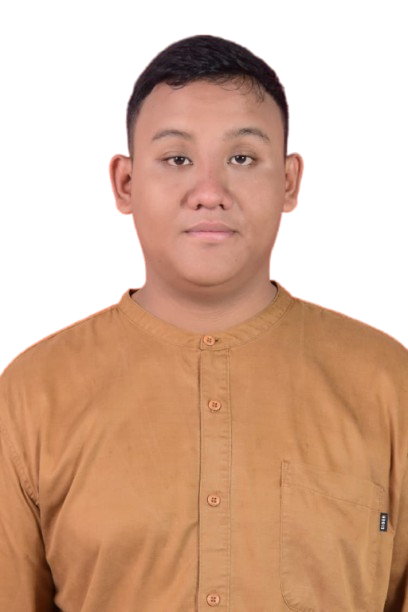
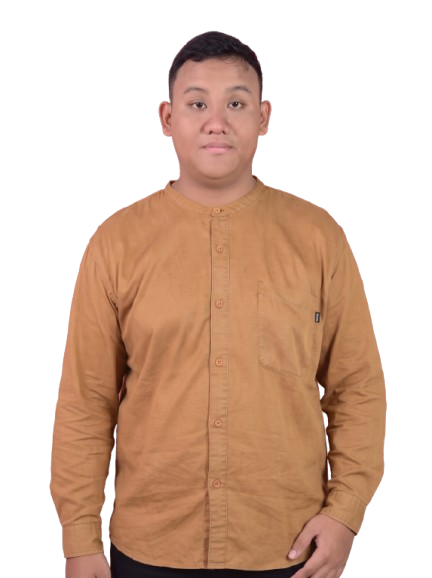
feat: add profile data and project portfolio datasets

diff --git a/data/projects.ts b/data/projects.ts
@@ -1,28 +1,4 @@
 import type { Project } from "@/lib/types";
-
-/**
- * Remapped from the previous `data/projects.ts` (7 projects).
- *
- * Asumsi:
- * - The old `type` field only knew Backend / Frontend / Fullstack, while the
- *   new `ProjectCategory` union is Fullstack / Backend / E-Commerce. The two
- *   former "Frontend" entries were therefore reclassified: the Clinic &
- *   Pharmacy Portal is a fullstack web app (Next.js + Prisma + JWT), and
- *   Outer.Co is genuinely an e-commerce build.
- * - `year`, `role` and `timeline` did not exist before. `year` comes from the
- *   previous `data/timeline.ts` entries, `role` from each project's stack, and
- *   `timeline` was written from the problem/impact notes that already existed.
- * - `client` / `studio` were never recorded. Self-built products use
- *   `studio: "Independent"`, the portfolio uses `studio: "CoreCraft"`, and
- *   Outer.Co uses `client: "Outer.Co"`.
- * - `problem` / `architecture` / `solution` / `deliverables` / `metrics` are
- *   the case-study fields the new `/work/[slug]` route renders. Each is a
- *   restatement of that project's own summary, stack and timeline — no new
- *   claims were introduced. `metrics` only carries a number where the source
- *   data already quantified one (40% faster, < 3s retrieval, 100% stock
- *   accuracy, 100 Lighthouse, three branches); the rest are factual capability
- *   tokens such as "RBAC" or "Multi-outlet".
- */
 export const projects: Project[] = [
   {
     slug: "worknest",

diff --git a/data/profile.ts b/data/profile.ts
@@ -6,8 +6,8 @@ import type { Profile } from "@/lib/types";
  * Statement section renders.
  */
 export const profile: Profile = {
-  firstName: "MOHAMMAD",
-  lastName: "KEVIN",
+  firstName: "Mohammad",
+  lastName: "Kevin",
   fullName: "Mohammad Kevin Arif Rudianto",
   role: "Backend & Fullstack Software Engineer",
   subtitle:
